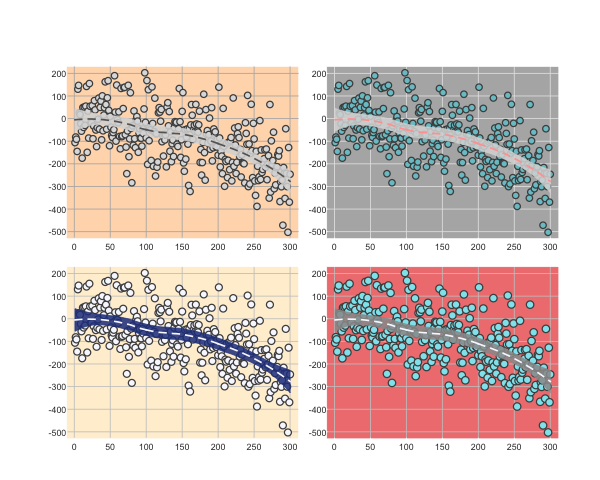
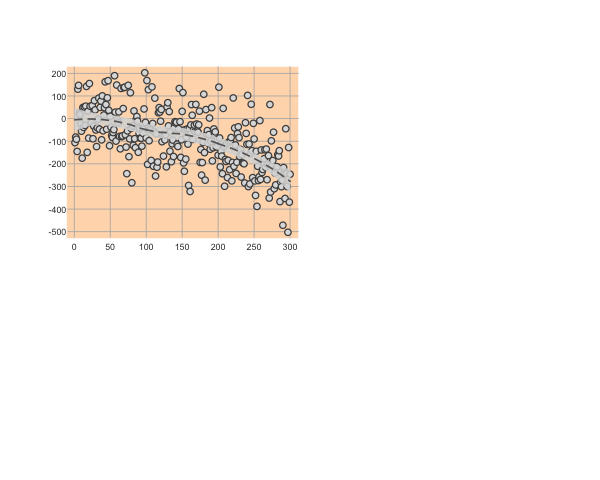
new default example

diff --git a/README.md b/README.md
@@ -18,7 +18,15 @@ X <- 1:300
 Y <-  .0002*X - .003*X^2 + rnorm(n=length(X), mean=0, sd=100)
 ```
 
-Then, we create some plots.
+First, here's the default plot.
+
+```{r}
+par.gh()
+plot.gh(X, Y)
+loessCI(X, Y)
+```
+
+![Example0](example_main.png)
 
 ```{r}
 pdf(file="example.pdf", height=6, width=8)
